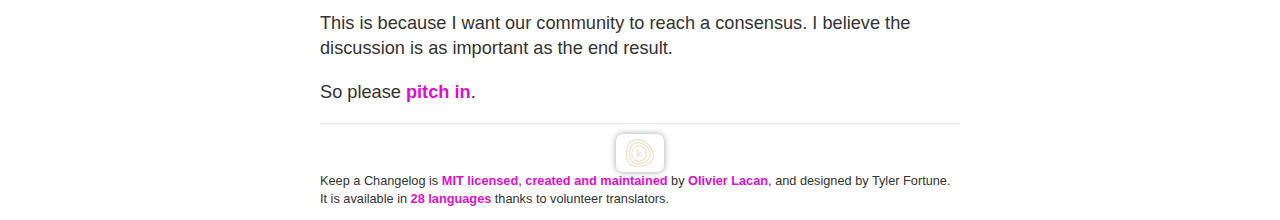
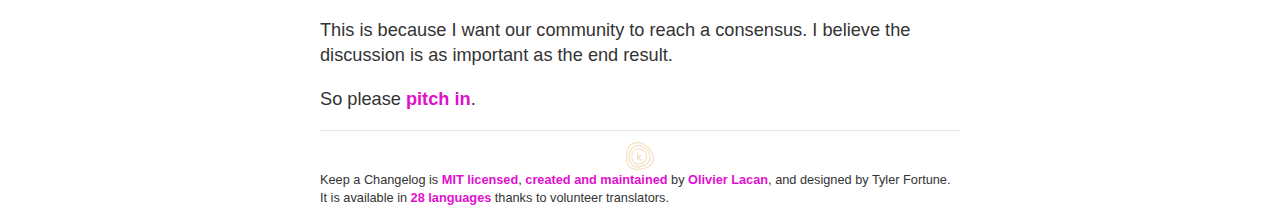
Unbox the brand mark in the legacy (0.3.0) footer
legacy.css.sass frames every `article img` like a content screenshot
(shadow, radius, padding) — but no 0.3.0 page embeds content images, so
the only thing the frame ever styled was the footer's brand mark, which
read as a stray white box. Exempt footer images from the treatment.

Also combine the three per-generation footer screenshots into one
labeled image for the PR description.

Claude-Session: https://claude.ai/code/session_015Jx1aE3LYTckDNPWjFLKXM

diff --git a/source/assets/stylesheets/legacy.css.sass b/source/assets/stylesheets/legacy.css.sass
@@ -78,6 +78,14 @@ article img
   border-radius: 7px
   padding: 0.4em 0.9em
 
+// The framed-screenshot treatment above is meant for content images; the
+// footer's brand mark is page chrome and looked boxed-in with it (no 0.3.0
+// page embeds content images today, so the frame only ever showed there).
+.footer img
+  box-shadow: none
+  border-radius: 0
+  padding: 0
+
 article > ul
   font-size: 1.2em
   padding-left: 0
